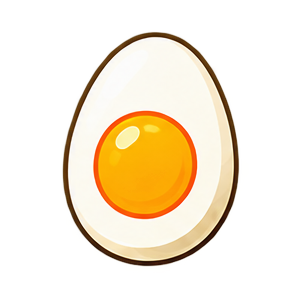
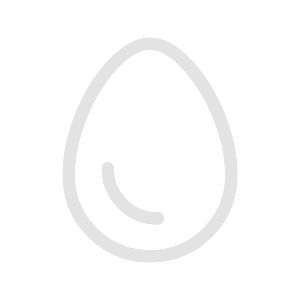
refine: reorder and update food thumbnails

Changed region(s): [[0.21, 0.09, 0.81, 0.9], [0.3, 0.36, 0.66, 0.75]]

diff --git a/test/features/food/food_thumbnail_test.dart b/test/features/food/food_thumbnail_test.dart
@@ -7,6 +7,7 @@ void main() {
   const customAssets = <FoodVisualKey, String>{
     FoodVisualKey.meat: 'meat.png',
     FoodVisualKey.fish: 'fish.png',
+    FoodVisualKey.egg: 'egg.png',
     FoodVisualKey.dairy: 'dairy.png',
     FoodVisualKey.grain: 'grain.png',
     FoodVisualKey.vegetable: 'vegetable.png',
@@ -19,7 +20,6 @@ void main() {
   };
 
   const materialIcons = <FoodVisualKey, IconData>{
-    FoodVisualKey.egg: Icons.egg_alt_outlined,
     FoodVisualKey.snack: Icons.cookie_outlined,
     FoodVisualKey.drink: Icons.local_drink_outlined,
   };
@@ -45,6 +45,28 @@ void main() {
       }
     },
   );
+
+  test('thumbnail selector order keeps plate after protein and before soup', () {
+    expect(
+      FoodVisualKey.values.map((key) => key.stableId).toList(),
+      [
+        'meat',
+        'fish',
+        'egg',
+        'dairy',
+        'grain',
+        'vegetable',
+        'fruit',
+        'snack',
+        'drink',
+        'condiment',
+        'protein',
+        'plate',
+        'soup',
+        'surimi',
+      ],
+    );
+  });
 
   test('null and unknown stable IDs resolve to the generic fallback', () {
     expect(FoodThumbnailAssetResolver.resolve(null), isNull);

diff --git a/lib/features/food/widgets/food_thumbnail.dart b/lib/features/food/widgets/food_thumbnail.dart
@@ -43,6 +43,7 @@ abstract final class FoodThumbnailAssetResolver {
   static String? resolve(FoodVisualKey? key) => switch (key) {
     FoodVisualKey.meat ||
     FoodVisualKey.fish ||
+    FoodVisualKey.egg ||
     FoodVisualKey.dairy ||
     FoodVisualKey.grain ||
     FoodVisualKey.vegetable ||

diff --git a/lib/features/food/models/food_catalog_models.dart b/lib/features/food/models/food_catalog_models.dart
@@ -26,13 +26,13 @@ enum FoodVisualKey {
   egg,
   dairy,
   grain,
-  plate,
   vegetable,
   fruit,
   snack,
   drink,
   condiment,
   protein,
+  plate,
   soup,
   surimi;
 
